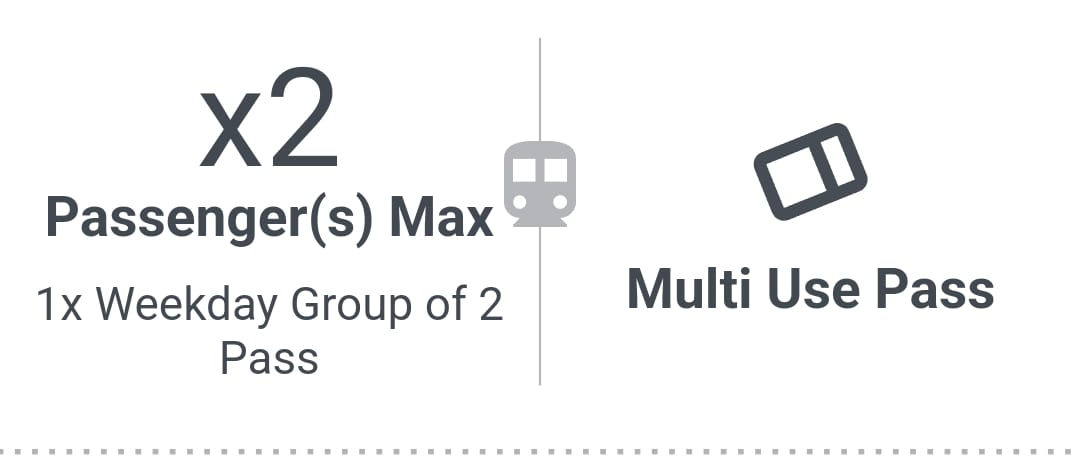
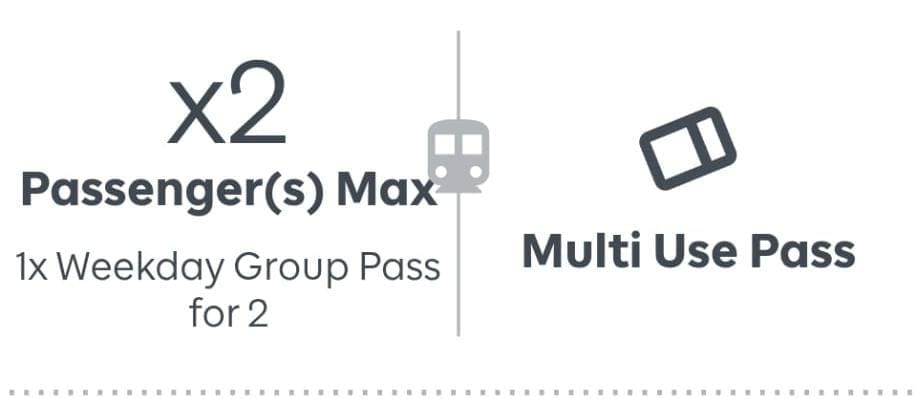
ui fixes

diff --git a/styles.css b/styles.css
@@ -1,13 +1,15 @@
-:root
-{
-  --monLight : rgb(144,35,206);
-  --monDark : rgb(89, 17, 131);
-  
+:root{
+  --monLight: rgb(144,35,206);
+  --monDark: rgb(89,17,131);
+  --ui-gray: #464c55;
+  --accent: var(--monLight);
+  --font-sans: 'Poppins', system-ui, -apple-system, 'Segoe UI', Roboto, 'Helvetica Neue', Arial, sans-serif;
+  --font-display: 'Montserrat', 'Poppins', sans-serif;
 }
 
 
 body {
-  font-family: Roboto, 'Open Sans', 'Helvetica Neue', sans-serif;
+  font-family: var(--font-sans);
   padding: 0;
   margin: 0;
   animation: bodyColorMon 2s infinite;
@@ -54,19 +56,26 @@ body {
 }
 
 .top .title .marquee div {
-  font-size: 20px;
+  font-size: 25px;
   font-family: Verdana, sans-serif;
   padding-left: 100%;
   display: inline-block;
   animation: animate 10s linear infinite;
 }
 
-.top .description {
-  margin: 10px 0 30px 0;
+.top .description  {
+  margin: 0px 0 30px 0;
   text-align: center;
-  font-size: 17px;
+  font-size: 18px;
   color: #fff;
 }
+
+.top .description p 
+{
+  margin: 5px 0 30px 0;
+
+}
+
 
 .ticket-container {
   background-color: #fff;
@@ -95,6 +104,8 @@ body {
 }
 
 .ticket-container .middle_image {
+  margin-top: 0px;
+  background-color: #fff;
   width: 100%;
 }
 
@@ -110,12 +121,12 @@ body {
 
 .ticket-container .time_number .text {
   text-align: center;
-  font-size: 20px;
+  font-size: 22px;
   color: black;
 }
 
 .ticket-container .time_number .text span {
-  font-weight: 700;
+  font-weight: 800;
   color: #464c55;
 }
 
@@ -174,14 +185,14 @@ body {
 .time_container .current_time .header,
 .time_container .activation_time .header {
   text-align: center;
-  font-size: 12px;
+  font-size: 13px;
   font-weight: 700;
   color: black;
 }
 
 .time_container .current_time .time,
 .time_container .activation_time .time {
-  font-weight: 600;
+  font-weight: 700;
   text-align: center;
   font-size: 20px;
 }
@@ -201,10 +212,12 @@ body {
 
 .bottom_header {
   font-size: 20px;
+  font-weight: 100;
+  line-height: 25px;
 }
 
 .bottom_time {
-  margin: 20px 0;
+  margin: 10px 0; 
   font-size: 40px;
   font-weight: 200;
 }

diff --git a/index.html b/index.html
@@ -4,6 +4,8 @@
     <title>Ticket</title>
     <meta charset="UTF-8" />
     <meta name="viewport" content="width=device-width, initial-scale=1.0" />
+    <link rel="preconnect" href="https://fonts.googleapis.com">
+    <link href="https://fonts.googleapis.com/css2?family=Montserrat:wght@500;700&family=Poppins:wght@300;400;600;700&display=swap" rel="stylesheet">
     <link rel="stylesheet" href="styles.css" />
     <script type="module" src="script.js" defer></script>
   </head>
@@ -24,8 +26,8 @@
         </div>
         <div class="description">
           <p>
-            Peterborough Bus Terminal to Union Station GO - <br />
-            Weekday Group Pass for 2
+            Peterborough Bus Terminal to Union Station GO<br />
+             - Weekday Group Pass for 2
           </p>
         </div>
       </div>
@@ -39,7 +41,7 @@
         </div>
         <div class="time_number">
           <div class="text">
-            Ticket Number: <span>MZ64143100</span>
+            Ticket Number: <span>MZ65936303</span>
           </div>
         </div>
         <div class="validaion">
